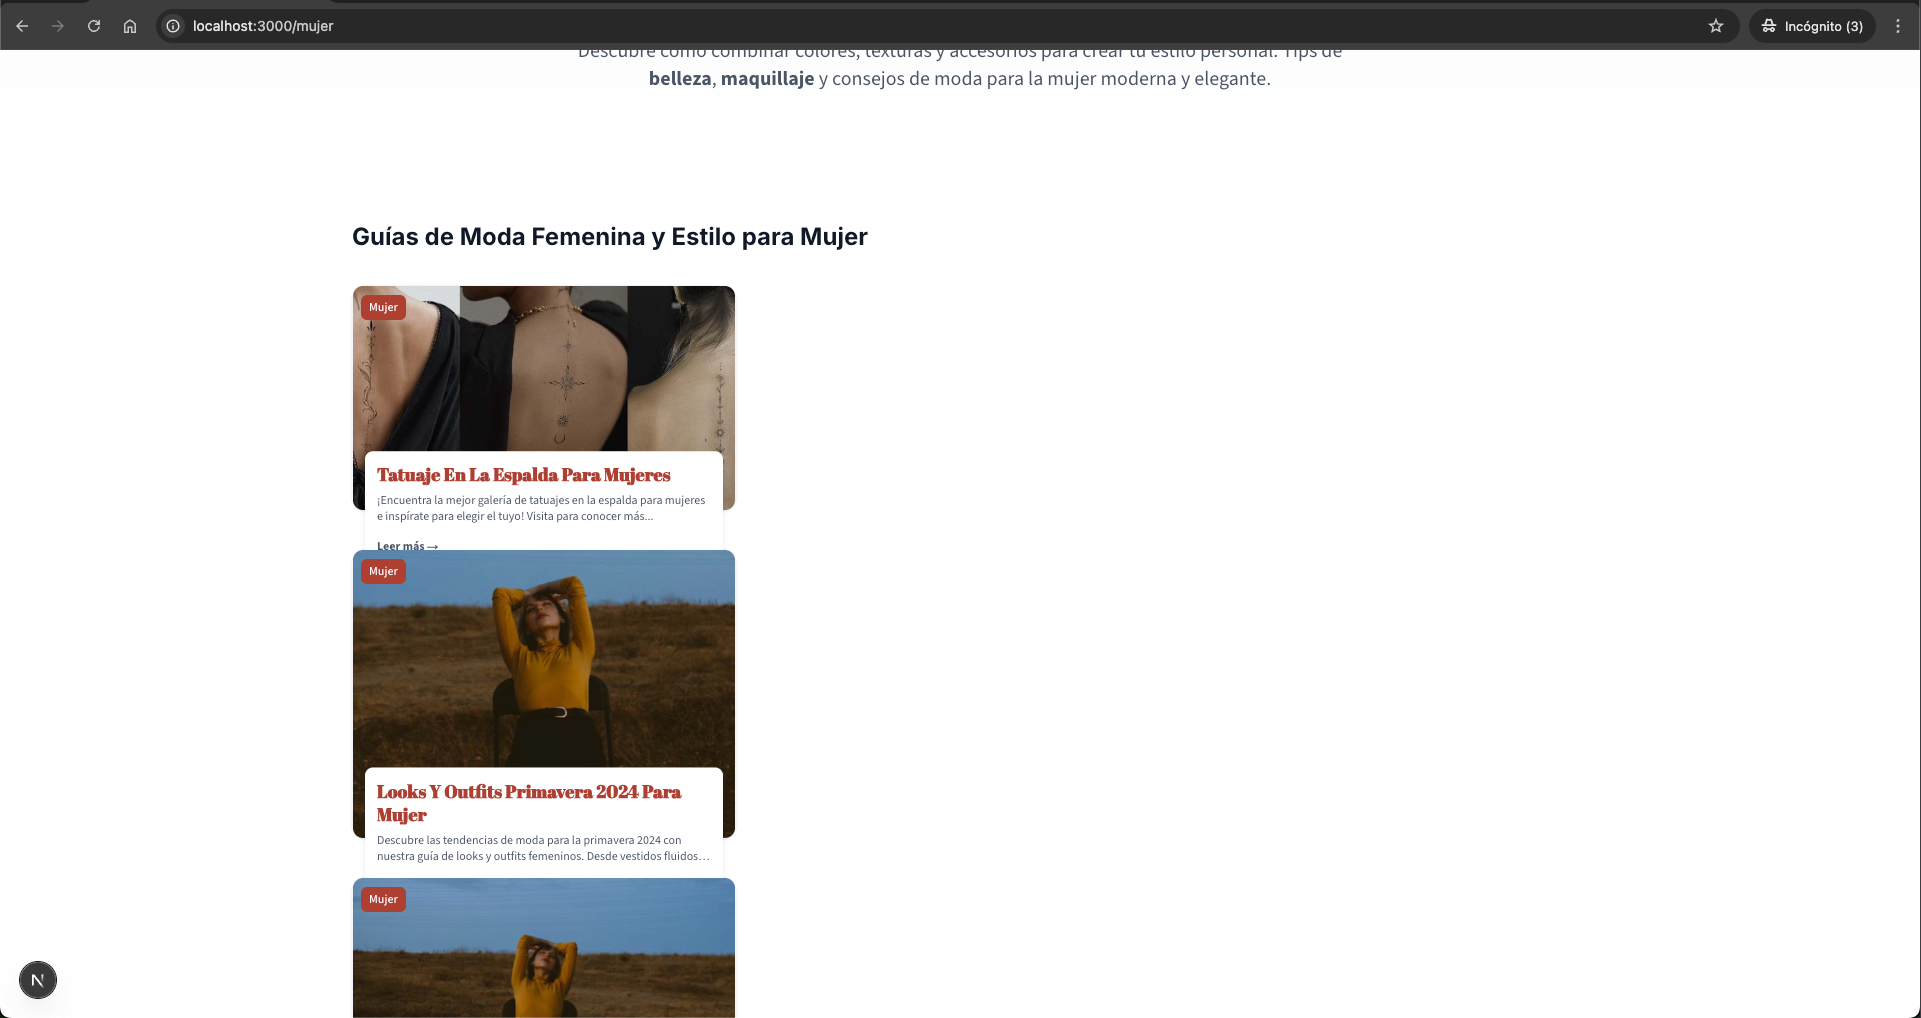
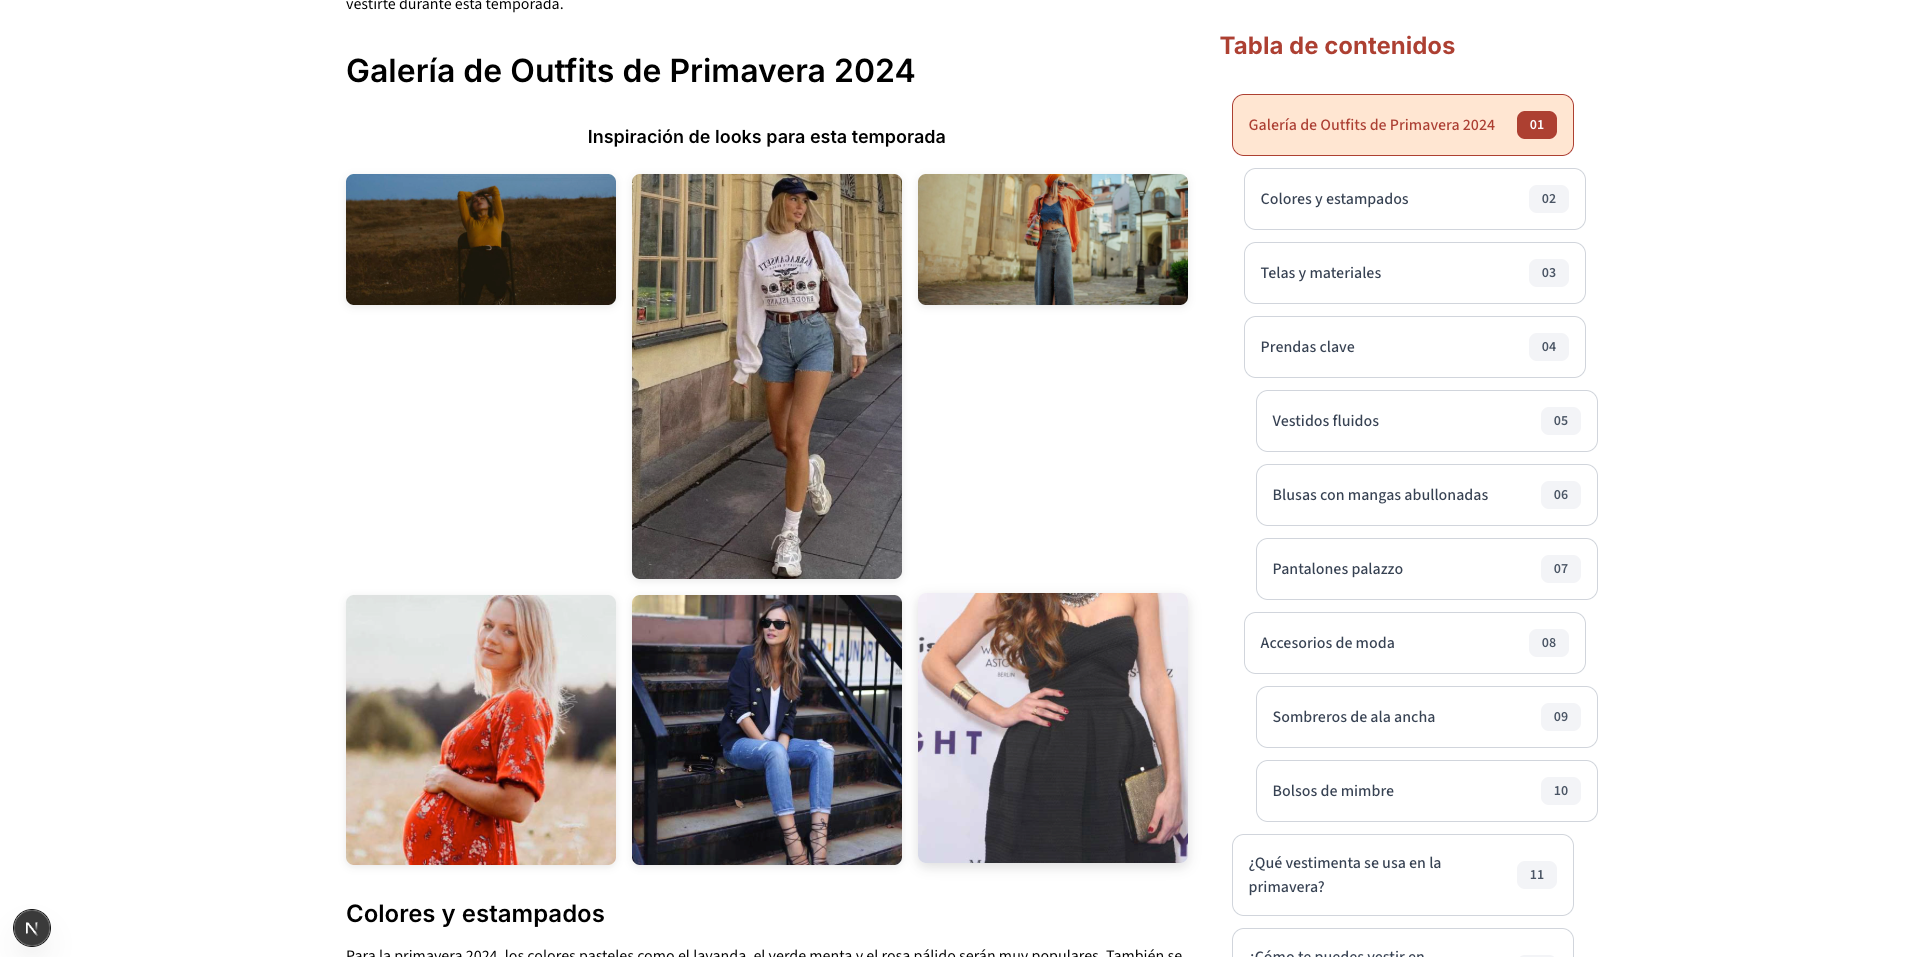
feat: Implementar galerías de imágenes para artículo outfit-primavera-mujer
- Agregar 2 galerías completas con 8 imágenes de outfits de primavera
- Mejorar script blog-extractor.js para detectar galerías Elementor dinámicas
- Implementar CSS responsive para componentes de galería con efectos hover
- Reorganizar estructura de directorios de imágenes (mover de rutas anidadas)
- Actualizar contenido del artículo con galerías HTML estructuradas
- Descargar y optimizar todas las imágenes de alta calidad para las galerías

🤖 Generated with [Claude Code](https://claude.ai/code)

diff --git a/scripts/blog-extractor.js b/scripts/blog-extractor.js
@@ -204,7 +204,8 @@ class BlogExtractor {
             .elementor-image-gallery, .elementor-widget-image-gallery
           `).remove();
 
-          // Extract Elementor images in their original order
+          // Extract Elementor galleries first, then individual images
+          this.extractElementorGalleries(cleanedElement, $);
           this.extractElementorImages(cleanedElement, $);
 
           // Remove links containing TADM logos and language flags
@@ -609,13 +610,27 @@ class BlogExtractor {
 
     let processedContent = markdownContent;
 
-    // First, replace all placeholders with temporary markers
-    this.imageReplacements.forEach(({ placeholder, markdown }) => {
+    // Separate gallery placeholders from image placeholders
+    const galleryPlaceholders = this.imageReplacements.filter(({ placeholder }) =>
+      placeholder.includes('GALLERYPLACEHOLDER'));
+    const imagePlaceholders = this.imageReplacements.filter(({ placeholder }) =>
+      placeholder.includes('IMAGEPLACEHOLDER'));
+
+    // Process gallery placeholders directly (no grouping needed)
+    galleryPlaceholders.forEach(({ placeholder, markdown }) => {
+      console.log(`🎨 Inserting gallery: ${placeholder}`);
+      processedContent = processedContent.replace(new RegExp(placeholder, 'g'), `\n\n${markdown}\n\n`);
+    });
+
+    // Process image placeholders with temporary markers for grouping
+    imagePlaceholders.forEach(({ placeholder, markdown }) => {
       processedContent = processedContent.replace(new RegExp(placeholder, 'g'), `\n\nIMAGEMARKER:::${markdown}:::IMAGEMARKER\n\n`);
     });
 
-    // Now detect consecutive images and group them into galleries
-    processedContent = this.createAutomaticGalleries(processedContent);
+    // Only apply automatic gallery creation to individual images
+    if (imagePlaceholders.length > 0) {
+      processedContent = this.createAutomaticGalleries(processedContent);
+    }
 
     // Reset for next article
     this.imageReplacements = [];
@@ -784,6 +799,116 @@ class BlogExtractor {
       } else {
         // Remove containers without images
         $container.remove();
+      }
+    });
+  }
+
+  extractElementorGalleries(cleanedElement, $) {
+    console.log('🎨 Extracting Elementor galleries...');
+
+    // Look for Elementor gallery widgets specifically
+    const galleryWidgets = cleanedElement.find('.elementor-widget-gallery');
+
+    console.log(`🖼 Found ${galleryWidgets.length} Elementor gallery widgets`);
+
+    galleryWidgets.each((galleryIndex, galleryWidget) => {
+      const $gallery = $(galleryWidget);
+      const galleryContainer = $gallery.find('.e-gallery-container').first();
+
+      if (galleryContainer.length) {
+        console.log(`🎨 Processing gallery ${galleryIndex + 1}`);
+
+        // Find all gallery items within this gallery
+        const galleryItems = galleryContainer.find('.e-gallery-item');
+        console.log(`📸 Found ${galleryItems.length} items in gallery ${galleryIndex + 1}`);
+
+        if (galleryItems.length >= 2) {
+          // Create gallery markdown
+          let galleryMarkdown = '\n\n<div class="image-gallery">\n';
+          galleryMarkdown += '<div class="gallery-title">Inspiración de looks para esta temporada</div>\n';
+          galleryMarkdown += '<div class="gallery-grid">\n';
+
+          let galleryImageCount = 0;
+
+          galleryItems.each((itemIndex, item) => {
+            const $item = $(item);
+
+            // Debug information
+            console.log(`🔍 Debugging item ${itemIndex + 1}:`);
+            console.log(`   - href: ${$item.attr('href') || 'NONE'}`);
+            console.log(`   - data-elementor-open-lightbox: ${$item.attr('data-elementor-open-lightbox') || 'NONE'}`);
+
+            const galleryImage = $item.find('.e-gallery-image');
+            const bgStyle = galleryImage.attr('style') || '';
+            console.log(`   - background style: ${bgStyle}`);
+            console.log(`   - data-thumbnail: ${galleryImage.attr('data-thumbnail') || 'NONE'}`);
+
+            // Try different selectors to find the image URL
+            let imageUrl = '';
+            const href = $item.attr('href') || '';
+
+            // Extract URL from href (link to full image)
+            if (href && (href.includes('.jpg') || href.includes('.png') || href.includes('.jpeg'))) {
+              imageUrl = href;
+              console.log(`   ✅ Found URL from href: ${imageUrl}`);
+            }
+            // Extract URL from background-image style
+            else if (bgStyle && bgStyle.includes('background-image: url(')) {
+              const match = bgStyle.match(/background-image:\s*url\(["']?(.*?)["']?\)/);
+              if (match && match[1]) {
+                imageUrl = match[1];
+                console.log(`   ✅ Found URL from background: ${imageUrl}`);
+              }
+            }
+            // Try data-thumbnail as fallback
+            else {
+              const thumbnail = galleryImage.attr('data-thumbnail');
+              if (thumbnail && (thumbnail.includes('.jpg') || thumbnail.includes('.png') || thumbnail.includes('.jpeg'))) {
+                imageUrl = thumbnail;
+                console.log(`   ✅ Found URL from data-thumbnail: ${imageUrl}`);
+              }
+            }
+
+            if (imageUrl) {
+              galleryImageCount++;
+              const alt = `outfit-primavera-look-${galleryImageCount}`;
+
+              console.log(`📷 Processing gallery image ${galleryImageCount}: ${imageUrl}`);
+
+              galleryMarkdown += `<figure class="gallery-item">\n`;
+              galleryMarkdown += `<img src="${imageUrl}" alt="${alt}">\n`;
+              galleryMarkdown += `<figcaption>${alt}</figcaption>\n`;
+              galleryMarkdown += `</figure>\n`;
+
+              // Add to images array for download
+              if (!this.currentExtractionImages) this.currentExtractionImages = [];
+              this.currentExtractionImages.push({
+                url: imageUrl,
+                alt: alt,
+                caption: alt
+              });
+            }
+          });
+
+          galleryMarkdown += '</div>\n';
+          galleryMarkdown += '</div>\n\n';
+
+          // Replace the entire gallery widget with our markdown
+          const placeholder = `GALLERYPLACEHOLDER${galleryIndex}PLACEHOLDER`;
+
+          // Store for later processing
+          if (!this.imageReplacements) this.imageReplacements = [];
+          this.imageReplacements.push({
+            placeholder: placeholder,
+            markdown: galleryMarkdown
+          });
+
+          $gallery.replaceWith(placeholder);
+
+          console.log(`✅ Processed gallery ${galleryIndex + 1} with ${galleryImageCount} images`);
+        } else {
+          console.log(`⏭ Skipping gallery ${galleryIndex + 1} - not enough images (${galleryItems.length})`);
+        }
       }
     });
   }

diff --git a/app/globals.css b/app/globals.css
@@ -249,3 +249,51 @@ span, p, a {
   break-inside: avoid;
   page-break-inside: avoid;
 }
+
+/* Gallery styles */
+.image-gallery {
+  margin: 2rem 0;
+}
+
+.gallery-title {
+  font-size: 1.125rem;
+  font-weight: 600;
+  color: #374151;
+  text-align: center;
+  margin-bottom: 1.5rem;
+}
+
+.gallery-grid {
+  display: grid;
+  grid-template-columns: repeat(auto-fit, minmax(280px, 1fr));
+  gap: 1.5rem;
+  margin: 0 auto;
+}
+
+.gallery-item {
+  background: white;
+  border-radius: 12px;
+  box-shadow: 0 2px 8px rgba(0, 0, 0, 0.1);
+  overflow: hidden;
+  transition: transform 0.2s, box-shadow 0.2s;
+}
+
+.gallery-item:hover {
+  transform: translateY(-2px);
+  box-shadow: 0 4px 16px rgba(0, 0, 0, 0.15);
+}
+
+.gallery-item img {
+  width: 100%;
+  height: 200px;
+  object-fit: cover;
+  display: block;
+}
+
+.gallery-item figcaption {
+  padding: 0.75rem 1rem;
+  font-size: 0.875rem;
+  color: #6b7280;
+  text-align: center;
+  font-weight: 500;
+}

diff --git a/content/posts/outfit-primavera-mujer.md b/content/posts/outfit-primavera-mujer.md
@@ -22,6 +22,30 @@ coverImage: "/images/posts/outfit-primavera-mujer.jpg"
 
 La primavera es una temporada llena de colores vibrantes y estilos frescos. En 2024, la moda femenina para esta estación combina elegancia, comodidad y versatilidad. A continuación, te presentamos las tendencias más destacadas y consejos para vestirte durante esta temporada.
 
+## Galería de Outfits de Primavera 2024
+
+<div class="image-gallery">
+<div class="gallery-title">Inspiración de looks para esta temporada</div>
+<div class="gallery-grid">
+<figure class="gallery-item">
+<img src="/images/posts/outfit-primavera-mujer-outfit-primavera.jpg" alt="outfit-primavera-look-1">
+<figcaption>outfit-primavera-look-1</figcaption>
+</figure>
+<figure class="gallery-item">
+<img src="/images/posts/outfit-primavera-mujer-primavera-outfit.jpg" alt="outfit-primavera-look-2">
+<figcaption>outfit-primavera-look-2</figcaption>
+</figure>
+<figure class="gallery-item">
+<img src="/images/posts/outfit-primavera-mujer-primavera-outfit-2024.jpg" alt="outfit-primavera-look-3">
+<figcaption>outfit-primavera-look-3</figcaption>
+</figure>
+<figure class="gallery-item">
+<img src="/images/posts/outfit-primavera-mujer-outfit-primavera-2024.jpg" alt="outfit-primavera-look-4">
+<figcaption>outfit-primavera-look-4</figcaption>
+</figure>
+</div>
+</div>
+
 ### Colores y estampados
 
 Para la primavera 2024, los colores pasteles como el lavanda, el verde menta y el rosa pálido serán muy populares. También se verán muchos estampados florales y geométricos que aportan frescura y dinamismo a cualquier look.
@@ -31,6 +55,30 @@ Para la primavera 2024, los colores pasteles como el lavanda, el verde menta y e
 Las telas ligeras y transpirables como el algodón, el lino y la seda serán las preferidas para mantenerte fresca y cómoda. Los tejidos naturales y ecológicos también estarán en tendencia, reflejando una preocupación creciente por la sostenibilidad.
 
 ### Prendas clave
+
+## Galería de Looks de Tendencia 2024
+
+<div class="image-gallery">
+<div class="gallery-title">Más inspiración de looks primaverales</div>
+<div class="gallery-grid">
+<figure class="gallery-item">
+<img src="/images/posts/outfit-primavera-mujer-primavera-look.jpg" alt="primavera-look-1">
+<figcaption>primavera-look-1</figcaption>
+</figure>
+<figure class="gallery-item">
+<img src="/images/posts/outfit-primavera-mujer-primavera-look-2024.jpg" alt="primavera-look-2">
+<figcaption>primavera-look-2</figcaption>
+</figure>
+<figure class="gallery-item">
+<img src="/images/posts/outfit-primavera-mujer-look-primavera.jpg" alt="primavera-look-3">
+<figcaption>primavera-look-3</figcaption>
+</figure>
+<figure class="gallery-item">
+<img src="/images/posts/outfit-primavera-mujer-look-primavera-2024.jpg" alt="primavera-look-4">
+<figcaption>primavera-look-4</figcaption>
+</figure>
+</div>
+</div>
 
 #### Vestidos fluidos
 
